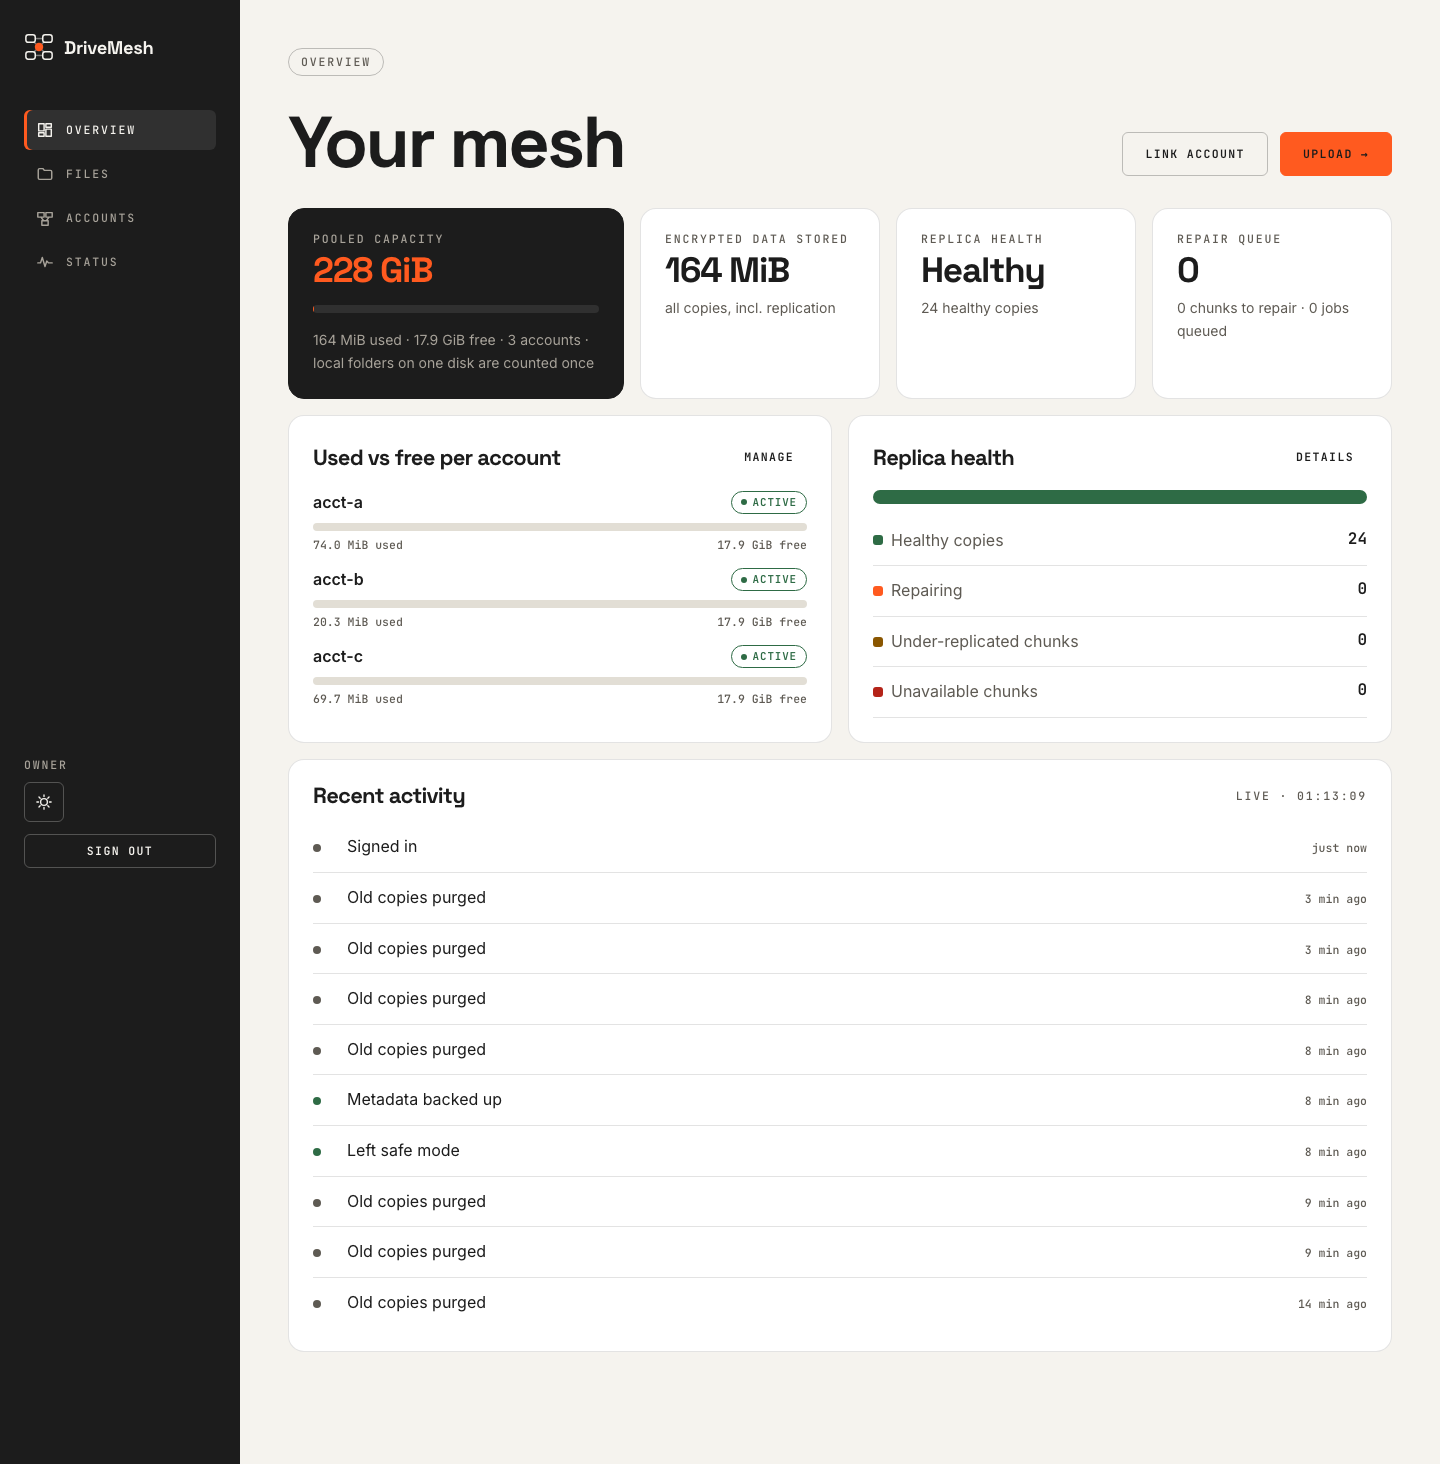
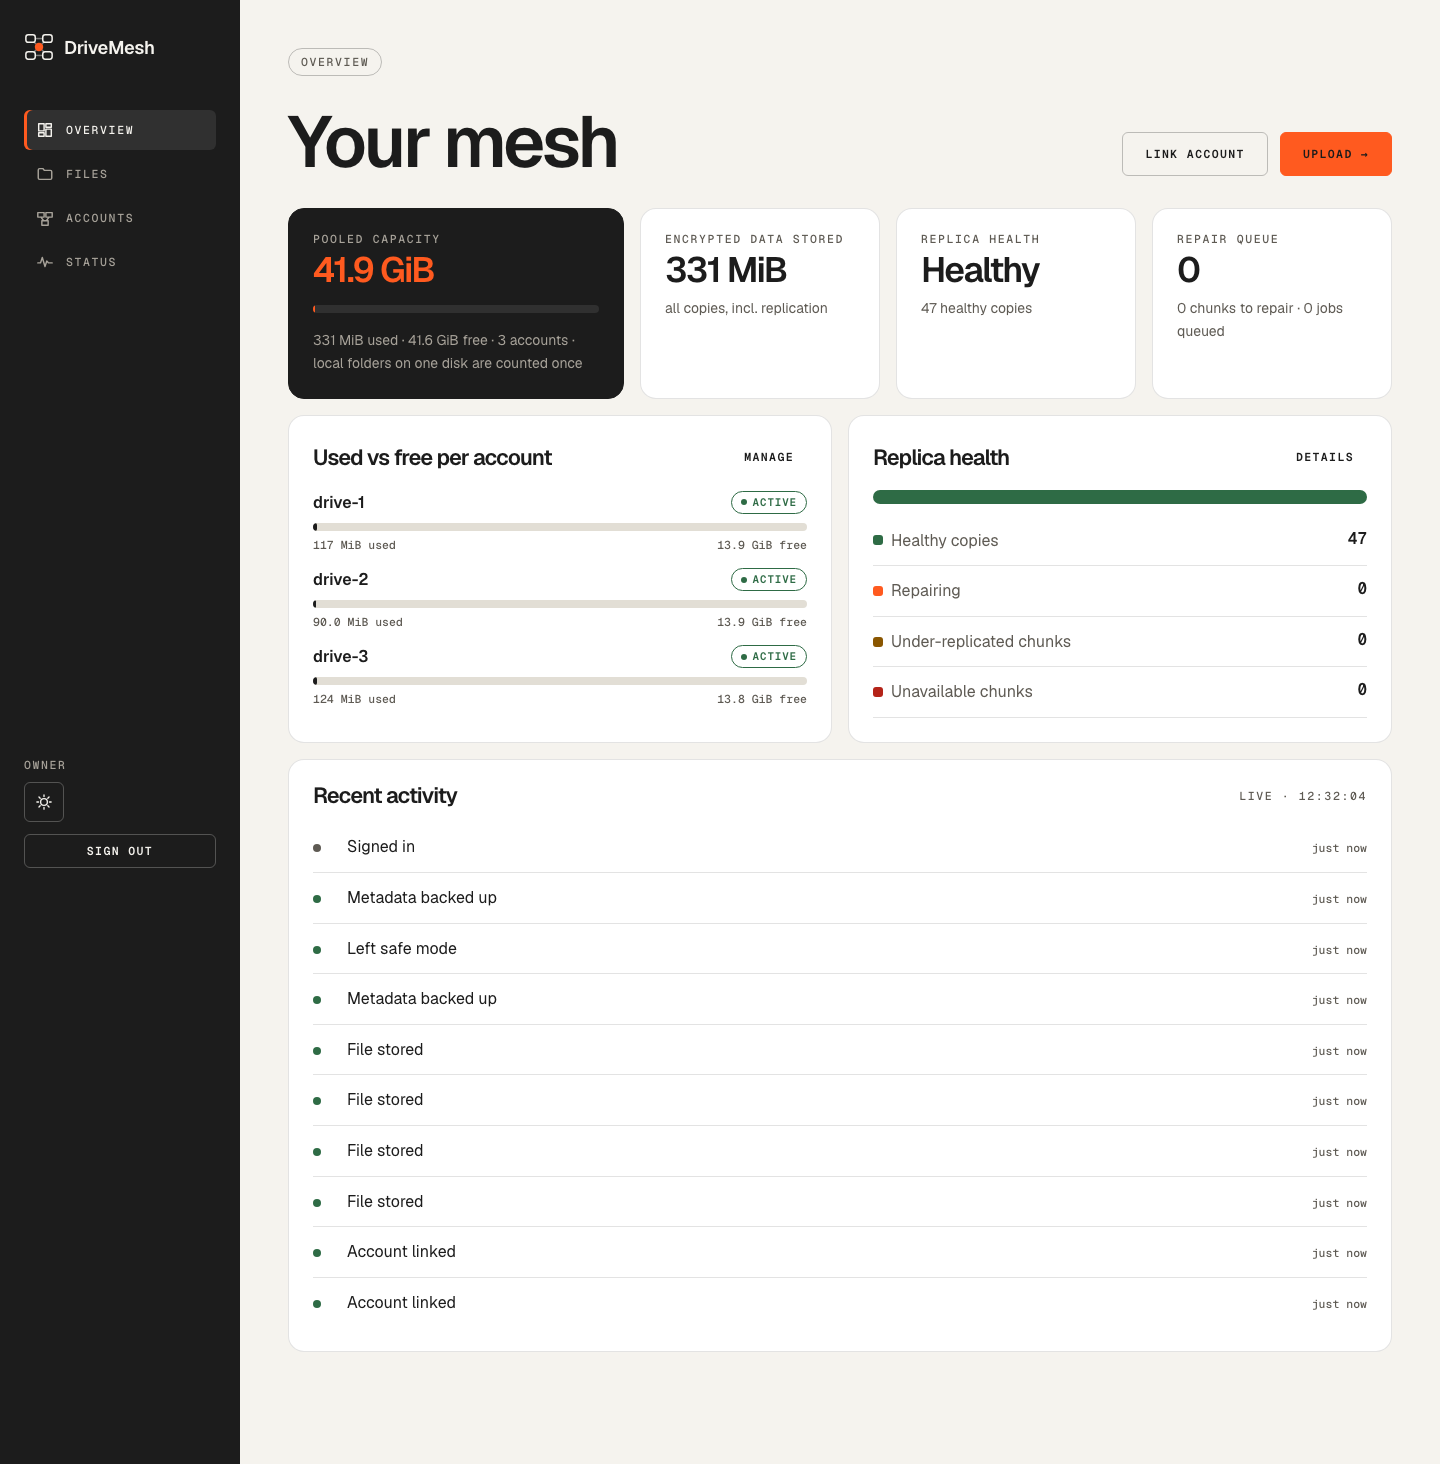
docs(readme): screenshots, Mermaid diagrams, capacity table, CLI and setup guide
Refreshes the app-page screenshots (Geist) from an isolated demo instance.

diff --git a/README.md b/README.md
@@ -3,85 +3,236 @@
 [![CI](https://github.com/PRAJINRAJ-RANAWAT/DriveMesh/actions/workflows/ci.yml/badge.svg)](https://github.com/PRAJINRAJ-RANAWAT/DriveMesh/actions/workflows/ci.yml)
 
 **A fault-tolerant, encrypted storage layer that pools the storage accounts you own** (several Google Drive accounts, local disks,
-S3-compatible buckets) into one replicated namespace, designed after HDFS/GFS.
+S3-compatible buckets) into one replicated namespace. It is designed after HDFS/GFS.
 
-Files are streamed in chunks and encrypted on the server with per-file keys (AES-256-GCM, envelope encryption). Each chunk is replicated
-to *different* accounts, chosen by weighted rendezvous hashing, with optional Reed–Solomon erasure coding. A metadata service (SQLite or Postgres)
-tracks every replica. Background workers do the rest:
-- health checks
-- re-replication when an account disappears
-- checksum scrubbing
-- balancing
-- garbage collection
-- encrypted metadata backups stored on the accounts themselves
+- **Chunked and encrypted:** files are streamed in 8 MiB chunks. The server encrypts each chunk with a per-file key (AES-256-GCM, envelope encryption) before anything reaches Google.
+- **Replicated:** every chunk is copied to *different* accounts (RF=2 by default), chosen by weighted rendezvous hashing. Optional Reed–Solomon erasure coding.
+- **Self-healing:** health checks, re-replication when an account disappears, a checksum scrubber, a balancer, garbage collection, and encrypted metadata backups stored on the accounts themselves.
 
-> Origin: this started as a 3-person course prototype (preserved unchanged in [`legacy/`](legacy/)). The prototype stored one copy of each chunk,
-> identified accounts by list position, and leaked its key in git history. See the [audit](docs/design/01-current-state.md). Everything outside
-> `legacy/` is a redesign and rebuild.
+> Origin: this started as a 3-person course prototype (preserved unchanged in [`legacy/`](legacy/)).
+> - The prototype stored one copy of each chunk.
+> - It identified accounts by list position.
+> - It leaked its key in git history. See the [audit](docs/design/01-current-state.md).
+>
+> Everything outside `legacy/` is a redesign and rebuild.
 
-## Architecture
+## Screenshots
+
+| Landing (light) | Landing (dark) |
+|---|---|
+| ![Landing page, light theme](docs/design/ui-reference/after-landing-desktop-01-hero.png) | ![Landing page, dark theme](docs/design/ui-reference/after-landing-dark-01-hero.png) |
+| **Scroll story: split → encrypt → replicate** | **Overview dashboard** |
+| ![Pinned scroll story](docs/design/ui-reference/after-landing-desktop-03-story2.png) | ![Overview dashboard](docs/design/ui-reference/after-app-desktop.png) |
+| **Files** | **Cluster status** |
+| ![Files page](docs/design/ui-reference/after-files-desktop.png) | ![Status page](docs/design/ui-reference/after-status-desktop.png) |
+
+<details><summary>Accounts page and mobile (390 px)</summary>
+
+| Accounts | Mobile landing | Mobile overview |
+|---|---|---|
+| ![Accounts page](docs/design/ui-reference/after-accounts-desktop.png) | ![Mobile landing](docs/design/ui-reference/after-landing-mobile-01-hero.png) | ![Mobile overview](docs/design/ui-reference/after-app-mobile.png) |
+
+</details>
+
+The app screenshots come from a local demo instance: 3 local-folder accounts with a simulated 15 GB capacity each, and four sample files.
+More screenshots are in [`docs/design/ui-reference/`](docs/design/ui-reference/).
+
+## How it works
+
+### Architecture
 ```mermaid
 flowchart LR
-  B[Browser / CLI] --> API[FastAPI: auth, CSRF, streaming]
-  API --> CORE[Writer / Reader / Namespace]
-  CORE --> PL[Rendezvous placement] & KM[Envelope crypto] & DB[(Metadata DB<br/>SQLite / Postgres)]
-  CORE --> RL[Retry + rate limit per account] --> G1[(Drive acct 1)] & G2[(Drive acct 2)] & L[(Local / S3)]
-  W[Workers: health · repair · scrub · balance · GC · backup] --> DB & RL
+  B[Browser / CLI] --> API["FastAPI<br/>auth · CSRF · streaming"]
+  API --> CORE["Writer · Reader · Namespace"]
+  CORE --> PL["Placement<br/>weighted rendezvous + least-loaded"]
+  CORE --> KM["Envelope crypto<br/>KEK → per-file DEK → AES-GCM"]
+  CORE --> DB[("Metadata DB (the NameNode)<br/>SQLite / Postgres")]
+  CORE --> RL["Per-account retry · token bucket · semaphore"]
+  RL --> G1[("Drive acct 1")] & G2[("Drive acct 2")] & G3[("Drive acct 3")] & L[("Local / S3")]
+  W["Background workers<br/>health · repair · scrub · balance · GC · backup · jobs"] --> DB & RL
 ```
-- **Write:**
-  1. Reserve a `pending` version.
-  2. Stream chunks: encrypt with AAD binding (file, version, index, last), place on RF distinct accounts, retry and fall back.
-  3. Commit atomically. A crash at any point leaves nothing visible and GC cleans up.
-- **Read:** pick the least-loaded healthy replica, verify SHA-256 and the GCM tag, fall back to other replicas, stream with bounded memory, support HTTP Range.
-- **Failure handling:** heartbeats → `unreachable`/`revoked` → after a grace period, repair in fewest-healthy-first order. Repair never forgets a replica just because its account is temporarily away.
+- The **metadata DB** is the single source of truth (the NameNode).
+- Storage accounts are **passive object stores** (DataNodes that run none of our code). Objects are opaque `dm-<uuid>` names in one `DriveMesh` folder per account.
 
-Design docs:
-1. [Audit](docs/design/01-current-state.md)
-2. [HDFS mapping & architecture](docs/design/02-architecture.md)
-3. [Low-level design](docs/design/03-lld.md)
-4. [ADRs](docs/design/04-decisions.md)
-5. [Roadmap](docs/design/05-roadmap.md)
-6. [Threat model](docs/design/07-threat-model.md)
-7. [Results](docs/design/results.md)
-8. [How it actually works (verified against the code, incl. DB schema)](docs/design/08-how-it-works.md)
+### Write path: two-phase, streamed, bounded memory
+```mermaid
+sequenceDiagram
+  participant C as Client
+  participant W as Writer
+  participant DB as Metadata DB
+  participant A as Accounts
+  C->>W: PUT /api/v1/files/content (raw streamed body)
+  W->>DB: phase 1: INSERT file(pending) + wrapped per-file key + lease
+  loop each 8 MiB chunk (4 in flight, backpressure to the socket)
+    W->>W: AES-256-GCM, AAD = file | version | index | is-last
+    W->>DB: INSERT chunk + replica rows (pending)
+    W->>A: upload to RF different accounts (retry, fall back to next account)
+    W->>DB: replicas → ok (remote id, sha256)
+  end
+  W->>DB: phase 2, one transaction: every chunk has ≥ quorum copies → committed
+  W-->>C: 201 {id, size, sha256, chunks}
+```
+- A crash, cancel or failed account before the commit leaves nothing visible. GC removes the leftovers.
+- The writer renews its lease while bytes arrive, so slow uploads survive.
+
+### Read path
+For each chunk:
+1. Pick the least-loaded healthy replica.
+2. Verify its **SHA-256** (no key needed), then the **GCM tag**, which binds the chunk to its position.
+3. If either check fails, fall back to the next replica and mark the bad copy for repair.
+
+Full reads also verify a **whole-file SHA-256**. Downloads stream with bounded memory and support HTTP `Range` (video seeking).
+
+### Self-healing
+```mermaid
+stateDiagram-v2
+  direction LR
+  [*] --> active: link account
+  active --> full: free space low / quota error
+  full --> active: space freed
+  active --> unreachable: 3 failed health checks (incl. DriveMesh folder deleted)
+  active --> revoked: OAuth token revoked / expired
+  unreachable --> active: answers again
+  revoked --> active: re-link
+  active --> draining: unlink (evacuate first)
+  draining --> removed: every chunk copied elsewhere
+```
+- Replicas on an `unreachable`/`revoked` account keep counting for **10 minutes**, so a network blip causes no repair storm.
+- After that, the repair worker re-replicates the affected chunks, **fewest healthy copies first**, 8 at a time.
+- The scrubber re-reads the oldest-verified copies at 1 MiB/s to catch silent corruption.
+
+### Metadata model
+```mermaid
+erDiagram
+  users ||--o{ linked_accounts : owns
+  users ||--o{ folders : owns
+  folders ||--o{ files : contains
+  files ||--o{ chunks : "split into"
+  chunks ||--o{ replicas : "stored as"
+  linked_accounts ||--o{ replicas : holds
+```
+The database enforces these invariants:
+- one committed version per path (partial unique index)
+- never two copies (or two erasure-coding shards) of a chunk on the same account
+- each external account linked once
+
+The full schema, the SQL and the indexes are in [08-how-it-works §12](docs/design/08-how-it-works.md#12-database).
 
 ## Measured results
 All from scripted runs recorded with their method in [results.md](docs/design/results.md). **These are local-disk or simulated-network numbers.
-Real Google Drive runs are pending** (see [MANUAL_STEPS](docs/design/MANUAL_STEPS.md#4-real-google-drive-benchmarks-fills-the-gdrive-rows-in-resultsmd)).
+Real Google Drive runs are pending** (see [MANUAL_STEPS §4](docs/design/MANUAL_STEPS.md#4-real-google-drive-benchmarks-fills-the-gdrive-rows-in-resultsmd)).
 
 | What | Result |
 |---|---|
-| Chaos: account loss, chunk deletion and corruption, `SIGKILL` mid-upload and mid-repair, metadata wipe + restore | **0 files lost and 0 wrong bytes across 70 trials** (7 experiments × 10); fsck clean and 0 orphans after every trial |
+| Chaos: account loss, chunk deletion and corruption, `SIGKILL` mid-upload and mid-repair, metadata wipe + restore | **0 files lost and 0 wrong bytes across 140 trials** (7 experiments × 10, run before and after the 2026-11-09 fixes; R-008, R-015) |
 | Memory while streaming 1 GB → 5 GB files | peak RSS ~291–331 MiB, flat across 1/2/3/5 GB (68 MiB interpreter baseline) |
 | Parallel transfer, 8 accounts, simulated 10 MB/s per account | 47.2 MB/s mean vs 8.5 MB/s sequential; load-aware placement +39 % over plain hashing |
 | Repair after losing 1 of 4 accounts (simulated 10 MB/s links) | 12.7 MB/s (parallel repair; 4.3 MB/s before the fix) |
 | Storage overhead (measured) | RF=2: 2.0000×, RS(4,2): 1.5000×; encryption adds 32 B per chunk (legacy Fernet: +33.34 %) |
 | Metadata at 1M chunks (Postgres 16) | repair scan 5.0 s, full fsck 7.9 s (fsck was 291 s before a query rewrite) |
+| Hot queries use the right index with or without DB statistics | the download replica lookup used to scan every replica on SQLite without statistics (19.9 ms at 40k replicas). Now it always uses the `(chunk_id, state)` index, pinned by plan tests (R-014) |
+| Tests | **235 tests**, 91 % line coverage; CI runs them on SQLite **and** Postgres 16, plus Playwright browser tests |
+
+### How much space do I get?
+Each free Google account has 15 GB **shared with Gmail and Photos**. DriveMesh keeps 256 MiB free per account.
+
+| Accounts | RF=2 (survives 1 loss) | RF=3 (survives 2) | RS(4,2) (survives 2) |
+|---|---|---|---|
+| 3 | 22.1 GB (14.7 GB to stay self-healing after a loss) | 14.7 GB | needs 6 accounts |
+| 5 | 36.8 GB | 24.5 GB | needs 6 accounts |
+| 10 | 73.6 GB | 49.1 GB | 98.2 GB |
+
+These are computed best-case figures, with empty Gmail/Photos. For 3 accounts use the default **RF=2**: it's the only setting that can copy data to a remaining account after a loss. See [08 §5](docs/design/08-how-it-works.md#5-capacity-math) for the full table.
 
 ## Quick start (local, no Google account needed)
 ```bash
 python3.12 -m venv .venv && source .venv/bin/activate && pip install -e ".[dev,pg]"
-export DRIVEMESH_MASTER_KEYS="$(drivemesh gen-key)"   # keep an offline copy!
+export DRIVEMESH_MASTER_KEYS="$(drivemesh gen-key)"   # keep an OFFLINE copy: losing it loses all data
 drivemesh create-user owner
 drivemesh account-add-local /tmp/dm/a && drivemesh account-add-local /tmp/dm/b && drivemesh account-add-local /tmp/dm/c
 drivemesh put ./some-file.pdf /some-file.pdf && drivemesh ls / && drivemesh status
 drivemesh serve            # web UI on http://localhost:8000
 ```
-To link Google Drive accounts, set up an OAuth web client ([MANUAL_STEPS §2](docs/design/MANUAL_STEPS.md)).
+
+### Use real Google Drive accounts
+You need a free Google Cloud OAuth client (one-time). Then link each Gmail account with **+ Link Google Drive** in the web UI. The step-by-step guide is in [MANUAL_STEPS §2–3](docs/design/MANUAL_STEPS.md):
+1. Create a Cloud project and enable the **Google Drive API**.
+2. Configure the consent screen as External / Testing, and add your Gmail addresses as test users.
+3. Scopes: `openid`, `userinfo.email` and `drive.file` only. DriveMesh can't see your other Drive files.
+4. Create a **Web** client with redirect URI `http://localhost:8000/accounts/callback/google`.
+5. Put the client ID and secret in `.env` as `DRIVEMESH_GOOGLE_CLIENT_ID` / `DRIVEMESH_GOOGLE_CLIENT_SECRET`.
+
+In Testing mode, Google expires the grants after 7 days. The account then shows `revoked` and you re-link it (one click). Publishing the app avoids this.
+
+### Configuration that matters
+All settings are environment variables `DRIVEMESH_<NAME>` (or `.env`). The full list is in [08 §9.1](docs/design/08-how-it-works.md#91-run-it-locally).
+
+| Variable | Default | What it changes |
+|---|---|---|
+| `MASTER_KEYS` | (required) | master key ring `id:base64key,...`. **Back it up offline** |
+| `DATABASE_URL` | `sqlite:///./data/drivemesh.db` | use Postgres when deployed |
+| `DEFAULT_RF` | 2 | copies per chunk (1–5; per file with `?rf=` or `--rf`) |
+| `CHUNK_SIZE` | 8 MiB | chunk size for new files |
+| `INFLIGHT_CHUNKS` | 4 | parallelism and memory per transfer |
+| `MAX_UPLOAD_BYTES` | 10 GiB | largest accepted upload |
+| `DEAD_AFTER_SECONDS` | 600 | grace period before an unhealthy account's copies are re-replicated |
+| `BACKUP_INTERVAL` | 900 | encrypted metadata snapshot cadence (RPO) |
+| `GOOGLE_CLIENT_ID` / `_SECRET` | — | enables Drive linking |
+
+### CLI
+| Command | Does |
+|---|---|
+| `drivemesh gen-key` | generate a master key |
+| `drivemesh init` / `create-user NAME` | migrate the DB / create the owner |
+| `drivemesh account-add-local PATH` / `account-list` / `account-remove ID` | manage accounts (remove = evacuate first) |
+| `drivemesh put LOCAL REMOTE [--rf N \| --ec K,M]` / `get REMOTE LOCAL` | upload / download |
+| `drivemesh ls` / `mkdir -p` / `mv` / `rm [-r]` | namespace |
+| `drivemesh status` / `fsck [--deep]` | health, consistency check |
+| `drivemesh worker` / `jobs` | run background workers / run pending jobs once |
+| `drivemesh backup` / `restore DIR` / `rewrap` | metadata snapshot, restore, master-key rotation |
+| `drivemesh serve` | web UI + API (+ workers) |
+
+## Security in one paragraph
+**What's protected:**
+- Google only ever sees ciphertext under random object names, plus object sizes and timing.
+- Each chunk is bound to its file, version and position, so swapped, reordered or truncated chunks are detected.
+- OAuth tokens and metadata snapshots are sealed with the master key, which lives only in the environment. Key rotation re-wraps keys without re-uploading data.
+
+**What isn't:**
+- The DriveMesh server sees plaintext while it encrypts.
+- The metadata DB stores file names in plaintext.
+- **Losing the master key loses everything.** There's no escrow.
+
+The full analysis is in the [threat model](docs/design/07-threat-model.md) and [08 §7](docs/design/08-how-it-works.md#7-security-model).
+
+## Design docs
+1. [Audit of the original prototype](docs/design/01-current-state.md)
+2. [HDFS mapping & architecture](docs/design/02-architecture.md)
+3. [Low-level design](docs/design/03-lld.md)
+4. [Architecture decision records](docs/design/04-decisions.md)
+5. [Roadmap](docs/design/05-roadmap.md)
+6. [Threat model](docs/design/07-threat-model.md)
+7. [Results](docs/design/results.md)
+8. [**How it actually works**: a code-verified spec with the DB schema, cheat sheet and interview answers](docs/design/08-how-it-works.md). Where it disagrees with docs 02–06, it wins (see its §0.3).
+9. [Manual steps (Google setup, benchmarks, deploy)](docs/design/MANUAL_STEPS.md)
 
 ## Development
 ```bash
 ruff check . && ruff format --check .
 pytest --cov=drivemesh                     # SQLite; set DRIVEMESH_TEST_DATABASE_URL for Postgres
+DRIVEMESH_UI_TESTS=1 pytest tests/ui       # Playwright browser tests
 python -m bench.run throughput --size-mb 1024
 python -m bench.chaos all --trials 10
 ```
-CI runs lint, the tests on SQLite **and** Postgres 16, `pip-audit`, and a Docker build that is smoke-tested against Postgres.
+CI runs lint, the tests on SQLite **and** Postgres 16, `pip-audit`, Playwright UI tests, and a Docker build that is smoke-tested against Postgres.
 
 ## Limitations (honest)
-- Single process; no hot-standby metadata. RPO = metadata snapshot interval (15 min).
-- **Losing the master key loses all data**: by design, there's no escrow.
-- On the free Render tier, workers sleep when the instance sleeps.
+- **Single process, single metadata DB, no hot standby.**
+  - Snapshots are taken every 15 min, so files committed after the last one are lost if the DB is lost.
+  - There's no CLI restore from a Drive account yet; restore works from a local account folder.
+- **Losing the master key loses all data**, by design.
+- On the free Render tier, workers sleep when the instance sleeps (no health checks, repair or backups while asleep).
 - Google "Testing" OAuth apps expire grants after 7 days.
-- Google Drive numbers haven't been measured yet. Every performance number above is local or simulated.
-- Not a sync client and not POSIX; no sharing between users.
+- **Every performance number above is local or simulated.** Google Drive numbers haven't been measured yet.
+- Same-name uploads overwrite (no version history).
+- Not a sync client and not POSIX. No sharing between users, and no per-user storage quota.
